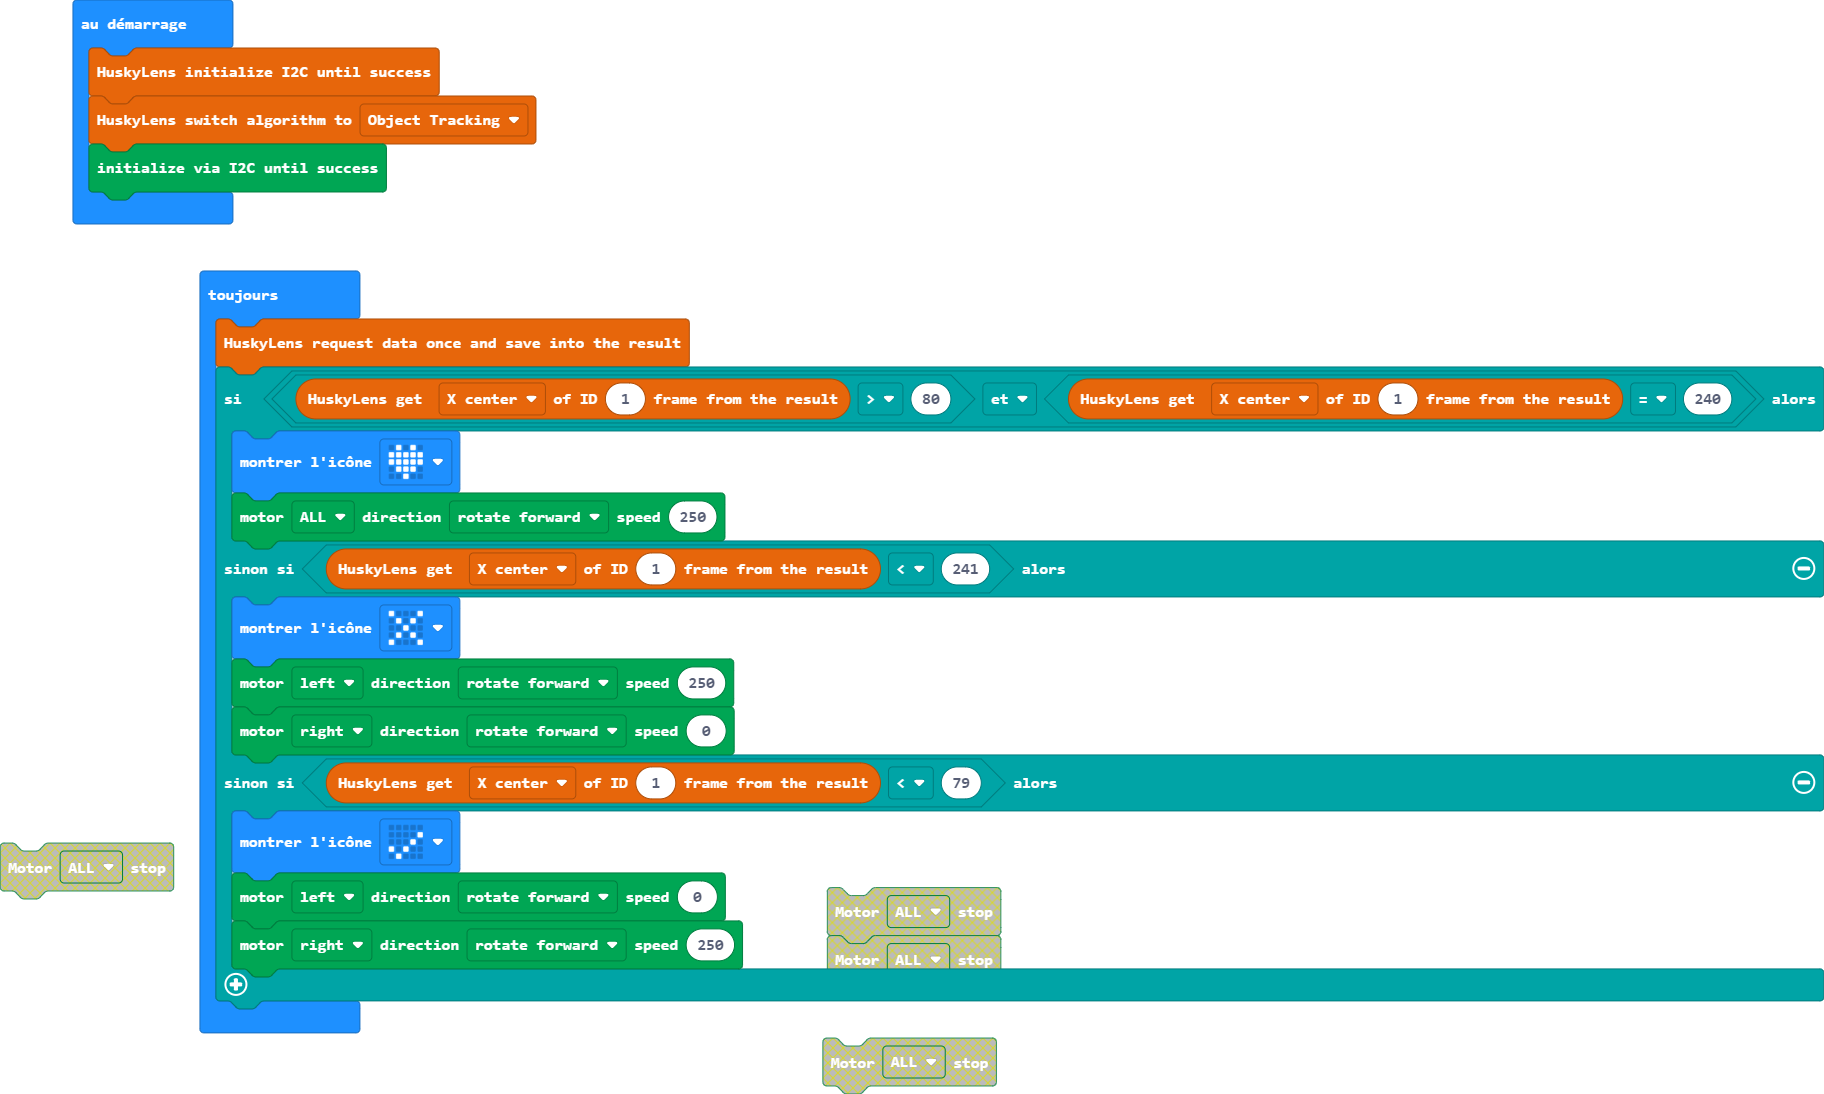
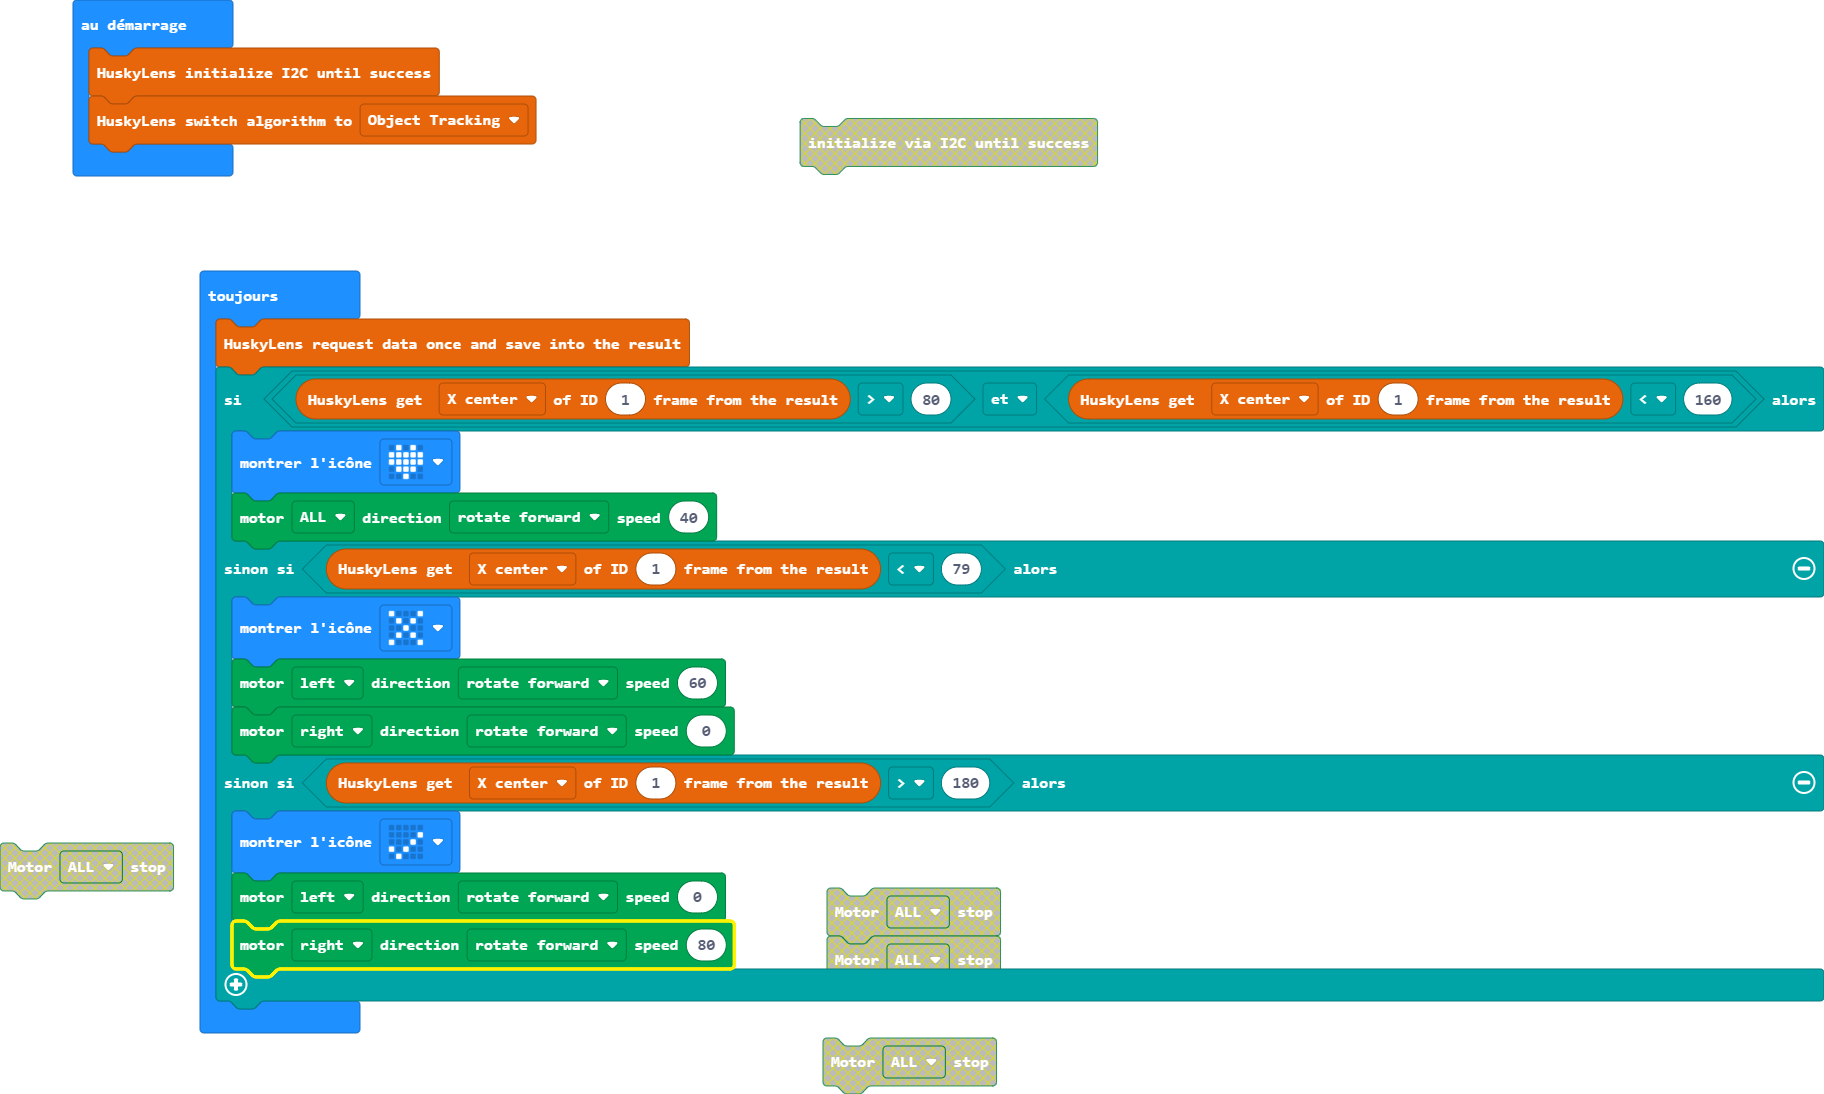
Mise à jour main.blocks, main.ts

diff --git a/main.ts b/main.ts
@@ -1,18 +1,17 @@
 huskylens.initI2c()
 huskylens.initMode(protocolAlgorithm.ALGORITHM_OBJECT_TRACKING)
-DFRobotMaqueenPlus.I2CInit()
 basic.forever(function () {
     huskylens.request()
-    if (huskylens.readeBox(1, Content1.xCenter) > 80 && huskylens.readeBox(1, Content1.xCenter) == 240) {
+    if (huskylens.readeBox(1, Content1.xCenter) > 80 && huskylens.readeBox(1, Content1.xCenter) < 160) {
         basic.showIcon(IconNames.Heart)
-        DFRobotMaqueenPlus.mototRun(Motors.ALL, Dir.CW, 250)
-    } else if (huskylens.readeBox(1, Content1.xCenter) < 241) {
-        basic.showIcon(IconNames.No)
-        DFRobotMaqueenPlus.mototRun(Motors.M1, Dir.CW, 250)
-        DFRobotMaqueenPlus.mototRun(Motors.M2, Dir.CW, 0)
+        DFRobotMaqueenPlus.mototRun(Motors.ALL, Dir.CW, 40)
     } else if (huskylens.readeBox(1, Content1.xCenter) < 79) {
+        basic.showIcon(IconNames.No)
+        DFRobotMaqueenPlus.mototRun(Motors.M1, Dir.CW, 60)
+        DFRobotMaqueenPlus.mototRun(Motors.M2, Dir.CW, 0)
+    } else if (huskylens.readeBox(1, Content1.xCenter) > 180) {
         basic.showIcon(IconNames.Yes)
         DFRobotMaqueenPlus.mototRun(Motors.M1, Dir.CW, 0)
-        DFRobotMaqueenPlus.mototRun(Motors.M2, Dir.CW, 250)
+        DFRobotMaqueenPlus.mototRun(Motors.M2, Dir.CW, 80)
     }
 })
